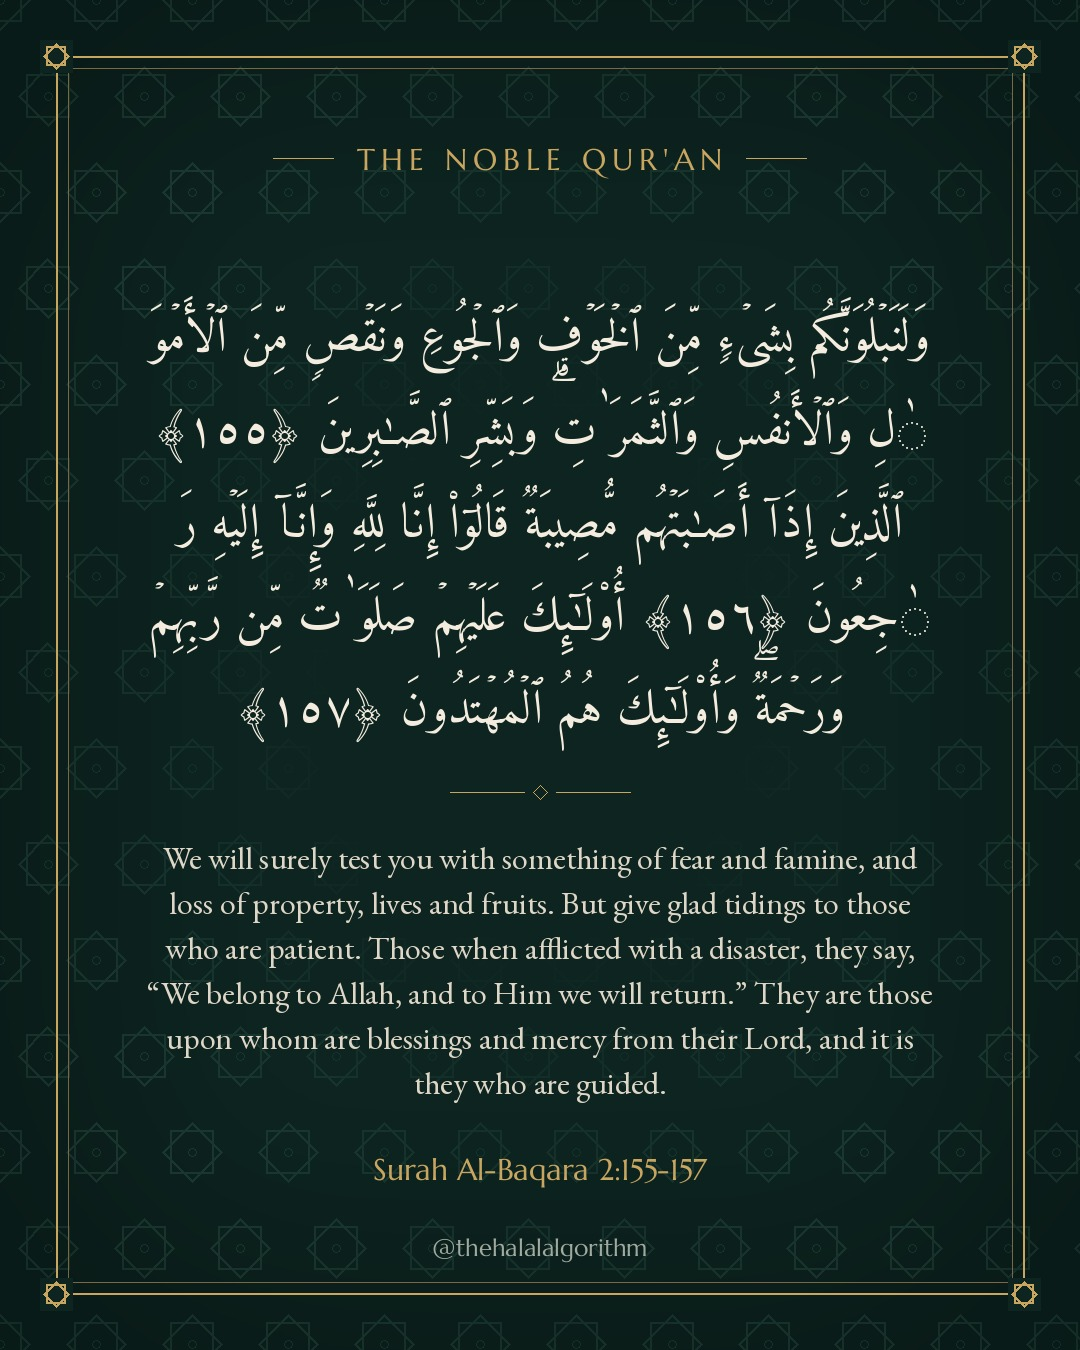
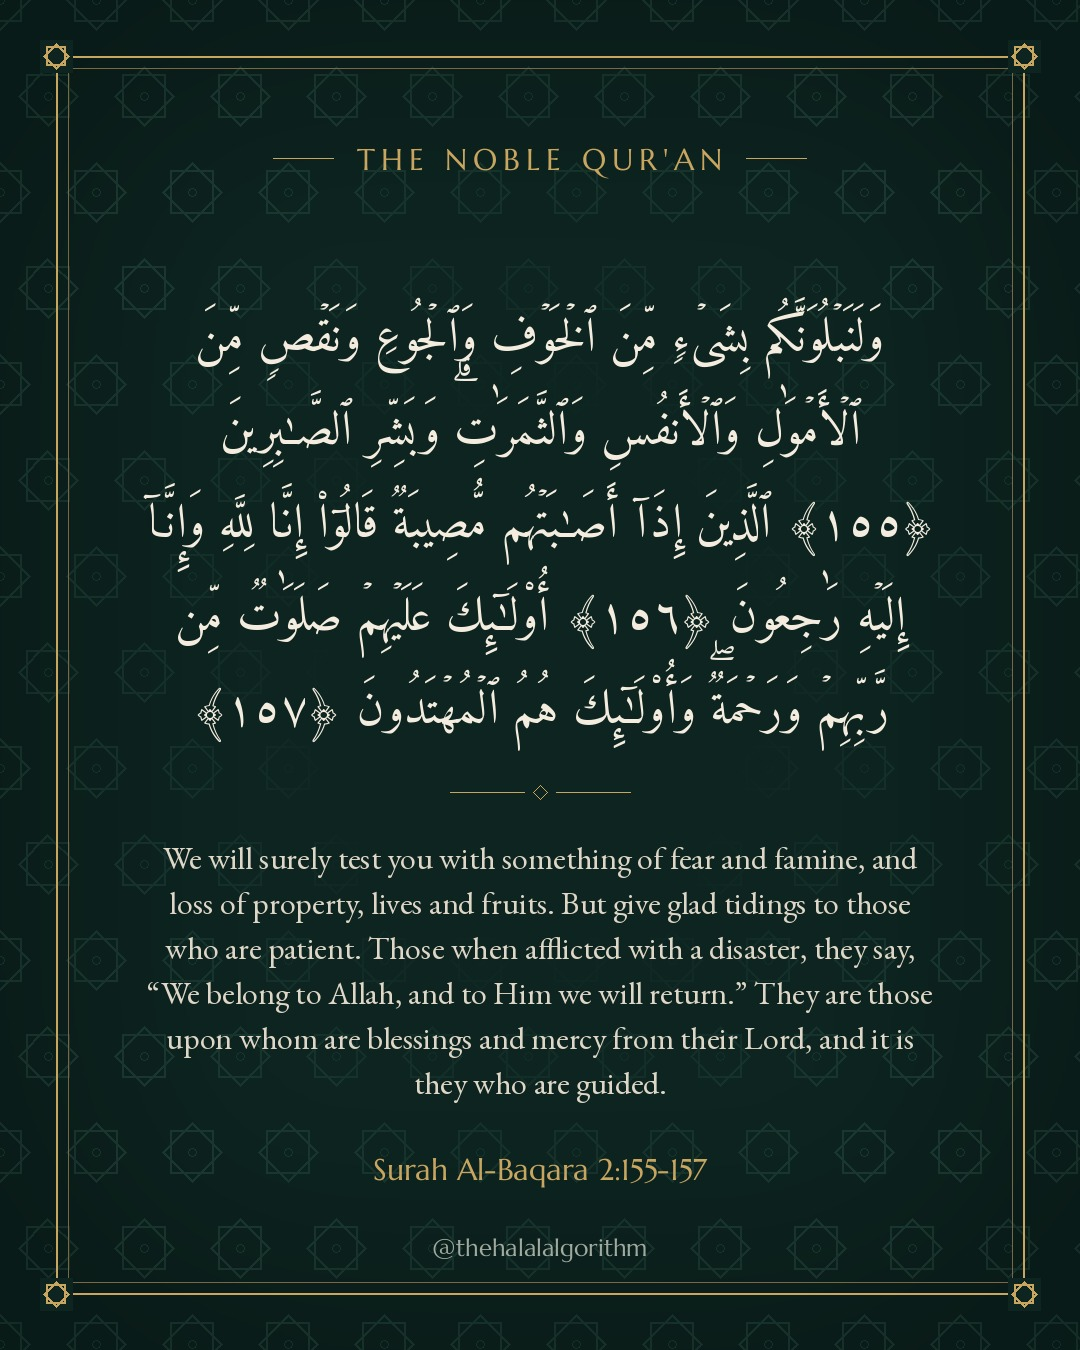
Fix Arabic wrapping: never split a word at the source's internal space; render dagger alif in standard form
Claude-Session: https://claude.ai/code/session_01FVsssR7m772C3oPqKDMiEB

Changed region(s): [[0.1222, 0.2178, 0.8556, 0.56]]

diff --git a/scripts/render.py b/scripts/render.py
@@ -8,6 +8,7 @@ Exits with code 3 if the text does not fit, so the curator picks another entry.
 """
 import math
 import sys
+import unicodedata
 from functools import lru_cache
 from pathlib import Path
 
@@ -147,9 +148,27 @@ def _layout_english(text, size, max_w):
     return lines, int(size * 1.42)
 
 
+def _arabic_words(text):
+    """Split on spaces, but keep a space that the source uses inside a word
+    (space + combining mark, e.g. a dagger alif) attached to that word.
+
+    The source encodes some dagger alifs as space + U+0670 + word joiner, a
+    spacing convention of its own font. For Amiri Quran the standard spelling
+    (the mark directly on the letter) renders correctly, so the space and joiner
+    are dropped. Display only: no letter or mark is changed."""
+    text = text.replace(" \u0670\u2060", "\u0670")
+    words = []
+    for tok in text.split(" "):
+        if words and tok and (unicodedata.category(tok[0]).startswith("M") or tok[0] == "\u2060"):
+            words[-1] += " " + tok
+        elif tok:
+            words.append(tok)
+    return words
+
+
 def _layout_arabic(text, size, max_w, path):
     f = _font(path, size)
-    lines = _wrap(text.split(" "), max_w,
+    lines = _wrap(_arabic_words(text), max_w,
                   lambda s: f.getlength(s, direction="rtl", language="ar"))
     return lines, int(size * 1.95)
 
